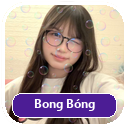
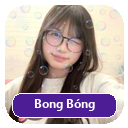
v75: add dreamy pastel glow, film tone, accents & Snow/Meitu frame to 7 kawaii fx (?v=20)

diff --git a/build_cloud_edition.js b/build_cloud_edition.js
@@ -1148,7 +1148,7 @@ baseRcEntries["allows_custom_filters"] = "true";
 
 const locketRcJs = `// Tommm1207 Private - Firebase Remote Config (Tự động giữ Caption ngày lễ mới & Filter chính chủ Locket + Gộp bộ Caption mở rộng)
 (function() {
-var RC_VER = "74";
+var RC_VER = "75";
 var rcFinished = false;
 function finishOnce(res) {
     if (rcFinished) return;
@@ -1534,12 +1534,12 @@ for (var cl = 0; cl < CUSTOM_LUT_SPECS.length; cl++) {
 for (var cf = 0; cf < CUSTOM_FRAME_SPECS.length; cf++) {
     var sp = CUSTOM_FRAME_SPECS[cf];
     var is4 = sp[4] === 1;
-    var cfIconUrl = (sp[0].indexOf("nm_") === 0 || sp[0].indexOf("fx_") === 0) ? (F2BASE + sp[0] + ".png?v=19") : (FBASE + sp[0] + ".png");
+    var cfIconUrl = (sp[0].indexOf("nm_") === 0 || sp[0].indexOf("fx_") === 0) ? (F2BASE + sp[0] + ".png?v=20") : (FBASE + sp[0] + ".png");
     pushCustomFilter(sp[0], sp[1], sp[2], sp[3], cfIconUrl, is4 ? "square.grid.2x2" : "photo.on.rectangle", is4 ? "📸" : "🖼");
 }
 for (var cv = 0; cv < CUSTOM_V2_SPECS.length; cv++) {
     var vp = CUSTOM_V2_SPECS[cv];
-    pushCustomFilter(vp[0], vp[1], vp[2], vp[3], F2BASE + vp[0] + ".png?v=19", vp[4], vp[5]);
+    pushCustomFilter(vp[0], vp[1], vp[2], vp[3], F2BASE + vp[0] + ".png?v=20", vp[4], vp[5]);
 }
 pushCustomFilter("weekday_depth", "Thứ Sau Chủ Thể (VI)", "#243B53", "#FFFFFF", FBASE + "weekday_depth.png", "calendar", "🇻🇳");
 pushCustomFilter("weekday_depth_en", "Day Depth (EN)", "#1E3A8A", "#60A5FA", FBASE + "weekday_depth_en.png?v=4", "calendar", "🇬🇧");
@@ -1672,16 +1672,16 @@ http-request ^https:\\/\\/(spclient\\.wg\\.spotify\\.com|.*-spclient\\.spotify\\
 # =====================================================================
 # 1. LOCKET GOLD TOMMM CLOUD 24/7 (CHUẨN 100% FIREBASE REMOTE CONFIG SDK iOS)
 # =====================================================================
-tommm_gold = type=http-response, pattern=^https:\\/\\/api\\.revenuecat\\.com\\/.+\\/(receipts$|subscribers\\/[^/]+$), script-path=${ghRawBase}/js_tommm_gold.js?v=74, requires-body=true, max-size=-1, timeout=60
-tommm_del_header = type=http-request, pattern=^https:\\/\\/(api\\.revenuecat\\.com\\/.+\\/(receipts|subscribers)|firebaseremoteconfig\\.googleapis\\.com\\/v1\\/projects\\/locket-4252a), script-path=${ghRawBase}/js_tommm_deleteHeader.js?v=74, timeout=60
-tommm_rc = type=http-response, pattern=^https:\\/\\/firebaseremoteconfig\\.googleapis\\.com\\/v1\\/projects\\/locket-4252a\\/.+, script-path=${ghRawBase}/js_tommm_rc.js?v=74, requires-body=true, max-size=-1, timeout=60
-tommm_ai_route = type=http-request, pattern=^https:\\/\\/(us-central1-locket-4252a\\.cloudfunctions\\.net|api\\.locketcamera\\.com)\\/.*(generateFilteredImage|generateFilter|applyFilter|createFilter|createCustomFilter|generateCustomFilter|createCameraFilter|createAiFilter|generateAiFilter|createUserFilter|saveFilter|saveCustomFilter|createLook|generateLook|customFilter|customFilters|userFilters|validateFilter|checkFilter|generateCaption|ai-filters), script-path=${ghRawBase}/js_tommm_ai_route.js?v=74, timeout=60
-tommm_yt_music_post = type=http-request, pattern=^https?:\\/\\/(us-central1-locket-4252a\\.cloudfunctions\\.net|api\\.locketcamera\\.com)\\/.*(postMoment|createMoment), script-path=${ghRawBase}/js_tommm_yt_music.js?v=74, requires-body=true, max-size=524288, timeout=10
-tommm_uid_req = type=http-request, pattern=^https:\\/\\/(us-central1-locket-4252a\\.cloudfunctions\\.net|api\\.locketcamera\\.com)\\/(?!(generateFilteredImage|generateFilter|applyFilter|createFilter|generateCaption|ai-filters|postMoment|createMoment|changeProfileInfo)).+, script-path=${ghRawBase}/js_tommm_badge.js?v=74, timeout=60
-tommm_badge_req = type=http-request, pattern=^https:\\/\\/(us-central1-locket-4252a\\.cloudfunctions\\.net|api\\.locketcamera\\.com)\\/.*changeProfileInfo, script-path=${ghRawBase}/js_tommm_badge.js?v=74, requires-body=true, max-size=131072, timeout=60
-tommm_badge_res = type=http-response, pattern=^https:\\/\\/(us-central1-locket-4252a\\.cloudfunctions\\.net|api\\.locketcamera\\.com)\\/(?!(generateFilteredImage|generateFilter|applyFilter|createFilter|generateCaption|ai-filters)).+, script-path=${ghRawBase}/js_tommm_badge.js?v=74, requires-body=true, max-size=1048576, timeout=60
-tommm_yt_playback = type=http-request, pattern=^https?:\\/\\/(s|www|music|m)\\.youtube\\.com\\/api\\/stats\\/(playback|watchtime|qoe), script-path=${ghRawBase}/js_tommm_yt_music.js?v=74, requires-body=false, timeout=5
-tommm_yt_music_sniffer = type=http-request, pattern=^https?:\\/\\/(youtubei\\.googleapis\\.com|music\\.youtube\\.com)\\/youtubei\\/v1\\/(player|get_watch), script-path=${ghRawBase}/js_tommm_yt_music.js?v=74, requires-body=true, binary-body-mode=true, max-size=65536, timeout=5
+tommm_gold = type=http-response, pattern=^https:\\/\\/api\\.revenuecat\\.com\\/.+\\/(receipts$|subscribers\\/[^/]+$), script-path=${ghRawBase}/js_tommm_gold.js?v=75, requires-body=true, max-size=-1, timeout=60
+tommm_del_header = type=http-request, pattern=^https:\\/\\/(api\\.revenuecat\\.com\\/.+\\/(receipts|subscribers)|firebaseremoteconfig\\.googleapis\\.com\\/v1\\/projects\\/locket-4252a), script-path=${ghRawBase}/js_tommm_deleteHeader.js?v=75, timeout=60
+tommm_rc = type=http-response, pattern=^https:\\/\\/firebaseremoteconfig\\.googleapis\\.com\\/v1\\/projects\\/locket-4252a\\/.+, script-path=${ghRawBase}/js_tommm_rc.js?v=75, requires-body=true, max-size=-1, timeout=60
+tommm_ai_route = type=http-request, pattern=^https:\\/\\/(us-central1-locket-4252a\\.cloudfunctions\\.net|api\\.locketcamera\\.com)\\/.*(generateFilteredImage|generateFilter|applyFilter|createFilter|createCustomFilter|generateCustomFilter|createCameraFilter|createAiFilter|generateAiFilter|createUserFilter|saveFilter|saveCustomFilter|createLook|generateLook|customFilter|customFilters|userFilters|validateFilter|checkFilter|generateCaption|ai-filters), script-path=${ghRawBase}/js_tommm_ai_route.js?v=75, timeout=60
+tommm_yt_music_post = type=http-request, pattern=^https?:\\/\\/(us-central1-locket-4252a\\.cloudfunctions\\.net|api\\.locketcamera\\.com)\\/.*(postMoment|createMoment), script-path=${ghRawBase}/js_tommm_yt_music.js?v=75, requires-body=true, max-size=524288, timeout=10
+tommm_uid_req = type=http-request, pattern=^https:\\/\\/(us-central1-locket-4252a\\.cloudfunctions\\.net|api\\.locketcamera\\.com)\\/(?!(generateFilteredImage|generateFilter|applyFilter|createFilter|generateCaption|ai-filters|postMoment|createMoment|changeProfileInfo)).+, script-path=${ghRawBase}/js_tommm_badge.js?v=75, timeout=60
+tommm_badge_req = type=http-request, pattern=^https:\\/\\/(us-central1-locket-4252a\\.cloudfunctions\\.net|api\\.locketcamera\\.com)\\/.*changeProfileInfo, script-path=${ghRawBase}/js_tommm_badge.js?v=75, requires-body=true, max-size=131072, timeout=60
+tommm_badge_res = type=http-response, pattern=^https:\\/\\/(us-central1-locket-4252a\\.cloudfunctions\\.net|api\\.locketcamera\\.com)\\/(?!(generateFilteredImage|generateFilter|applyFilter|createFilter|generateCaption|ai-filters)).+, script-path=${ghRawBase}/js_tommm_badge.js?v=75, requires-body=true, max-size=1048576, timeout=60
+tommm_yt_playback = type=http-request, pattern=^https?:\\/\\/(s|www|music|m)\\.youtube\\.com\\/api\\/stats\\/(playback|watchtime|qoe), script-path=${ghRawBase}/js_tommm_yt_music.js?v=75, requires-body=false, timeout=5
+tommm_yt_music_sniffer = type=http-request, pattern=^https?:\\/\\/(youtubei\\.googleapis\\.com|music\\.youtube\\.com)\\/youtubei\\/v1\\/(player|get_watch), script-path=${ghRawBase}/js_tommm_yt_music.js?v=75, requires-body=true, binary-body-mode=true, max-size=65536, timeout=5
 
 # =====================================================================
 # 2. CÁC TIỆN ÍCH PREMIUM KHÁC (CHẠY TỪ GITHUB CỦA TOMMM 100%)
@@ -1760,16 +1760,16 @@ http-request ^https:\\/\\/(spclient\\.wg\\.spotify\\.com|.*-spclient\\.spotify\\
 ^https?:\\/\\/[\\w-]+\\.googlevideo\\.com\\/initplayback.+&oad 'data-type=text data="" status-code=200'
 
 [Script]
-tommm_gold = type=http-response, pattern=^https:\\/\\/api\\.revenuecat\\.com\\/.+\\/(receipts$|subscribers\\/[^/]+$), script-path=${ghRawBase}/js_tommm_gold.js?v=74, requires-body=true, max-size=-1, timeout=60
-tommm_del_header = type=http-request, pattern=^https:\\/\\/(api\\.revenuecat\\.com\\/.+\\/(receipts|subscribers)|firebaseremoteconfig\\.googleapis\\.com\\/v1\\/projects\\/locket-4252a), script-path=${ghRawBase}/js_tommm_deleteHeader.js?v=74, timeout=60
-tommm_rc = type=http-response, pattern=^https:\\/\\/(firebaseremoteconfig\\.googleapis\\.com\\/v1\\/projects\\/locket-4252a\\/.+), script-path=${ghRawBase}/js_tommm_rc.js?v=74, requires-body=true, max-size=-1, timeout=60
-tommm_ai_route = type=http-request, pattern=^https:\\/\\/(us-central1-locket-4252a\\.cloudfunctions\\.net|api\\.locketcamera\\.com)\\/.*(generateFilteredImage|generateFilter|applyFilter|createFilter|createCustomFilter|generateCustomFilter|createCameraFilter|createAiFilter|generateAiFilter|createUserFilter|saveFilter|saveCustomFilter|createLook|generateLook|customFilter|customFilters|userFilters|validateFilter|checkFilter|generateCaption|ai-filters), script-path=${ghRawBase}/js_tommm_ai_route.js?v=74, timeout=60
-tommm_yt_music_post = type=http-request, pattern=^https?:\\/\\/(us-central1-locket-4252a\\.cloudfunctions\\.net|api\\.locketcamera\\.com)\\/.*(postMoment|createMoment), script-path=${ghRawBase}/js_tommm_yt_music.js?v=74, requires-body=true, max-size=524288, timeout=10
-tommm_uid_req = type=http-request, pattern=^https:\\/\\/(us-central1-locket-4252a\\.cloudfunctions\\.net|api\\.locketcamera\\.com)\\/(?!(generateFilteredImage|generateFilter|applyFilter|createFilter|generateCaption|ai-filters|postMoment|createMoment|changeProfileInfo)).+, script-path=${ghRawBase}/js_tommm_badge.js?v=74, timeout=60
-tommm_badge_req = type=http-request, pattern=^https:\\/\\/(us-central1-locket-4252a\\.cloudfunctions\\.net|api\\.locketcamera\\.com)\\/.*changeProfileInfo, script-path=${ghRawBase}/js_tommm_badge.js?v=74, requires-body=true, max-size=131072, timeout=60
-tommm_badge_res = type=http-response, pattern=^https:\\/\\/(us-central1-locket-4252a\\.cloudfunctions\\.net|api\\.locketcamera\\.com)\\/(?!(generateFilteredImage|generateFilter|applyFilter|createFilter|generateCaption|ai-filters)).+, script-path=${ghRawBase}/js_tommm_badge.js?v=74, requires-body=true, max-size=1048576, timeout=60
-tommm_yt_playback = type=http-request, pattern=^https?:\\/\\/(s|www|music|m)\\.youtube\\.com\\/api\\/stats\\/(playback|watchtime|qoe), script-path=${ghRawBase}/js_tommm_yt_music.js?v=74, requires-body=false, timeout=5
-tommm_yt_music_sniffer = type=http-request, pattern=^https?:\\/\\/(youtubei\\.googleapis\\.com|music\\.youtube\\.com)\\/youtubei\\/v1\\/(player|get_watch), script-path=${ghRawBase}/js_tommm_yt_music.js?v=74, requires-body=true, binary-body-mode=true, max-size=65536, timeout=5
+tommm_gold = type=http-response, pattern=^https:\\/\\/api\\.revenuecat\\.com\\/.+\\/(receipts$|subscribers\\/[^/]+$), script-path=${ghRawBase}/js_tommm_gold.js?v=75, requires-body=true, max-size=-1, timeout=60
+tommm_del_header = type=http-request, pattern=^https:\\/\\/(api\\.revenuecat\\.com\\/.+\\/(receipts|subscribers)|firebaseremoteconfig\\.googleapis\\.com\\/v1\\/projects\\/locket-4252a), script-path=${ghRawBase}/js_tommm_deleteHeader.js?v=75, timeout=60
+tommm_rc = type=http-response, pattern=^https:\\/\\/(firebaseremoteconfig\\.googleapis\\.com\\/v1\\/projects\\/locket-4252a\\/.+), script-path=${ghRawBase}/js_tommm_rc.js?v=75, requires-body=true, max-size=-1, timeout=60
+tommm_ai_route = type=http-request, pattern=^https:\\/\\/(us-central1-locket-4252a\\.cloudfunctions\\.net|api\\.locketcamera\\.com)\\/.*(generateFilteredImage|generateFilter|applyFilter|createFilter|createCustomFilter|generateCustomFilter|createCameraFilter|createAiFilter|generateAiFilter|createUserFilter|saveFilter|saveCustomFilter|createLook|generateLook|customFilter|customFilters|userFilters|validateFilter|checkFilter|generateCaption|ai-filters), script-path=${ghRawBase}/js_tommm_ai_route.js?v=75, timeout=60
+tommm_yt_music_post = type=http-request, pattern=^https?:\\/\\/(us-central1-locket-4252a\\.cloudfunctions\\.net|api\\.locketcamera\\.com)\\/.*(postMoment|createMoment), script-path=${ghRawBase}/js_tommm_yt_music.js?v=75, requires-body=true, max-size=524288, timeout=10
+tommm_uid_req = type=http-request, pattern=^https:\\/\\/(us-central1-locket-4252a\\.cloudfunctions\\.net|api\\.locketcamera\\.com)\\/(?!(generateFilteredImage|generateFilter|applyFilter|createFilter|generateCaption|ai-filters|postMoment|createMoment|changeProfileInfo)).+, script-path=${ghRawBase}/js_tommm_badge.js?v=75, timeout=60
+tommm_badge_req = type=http-request, pattern=^https:\\/\\/(us-central1-locket-4252a\\.cloudfunctions\\.net|api\\.locketcamera\\.com)\\/.*changeProfileInfo, script-path=${ghRawBase}/js_tommm_badge.js?v=75, requires-body=true, max-size=131072, timeout=60
+tommm_badge_res = type=http-response, pattern=^https:\\/\\/(us-central1-locket-4252a\\.cloudfunctions\\.net|api\\.locketcamera\\.com)\\/(?!(generateFilteredImage|generateFilter|applyFilter|createFilter|generateCaption|ai-filters)).+, script-path=${ghRawBase}/js_tommm_badge.js?v=75, requires-body=true, max-size=1048576, timeout=60
+tommm_yt_playback = type=http-request, pattern=^https?:\\/\\/(s|www|music|m)\\.youtube\\.com\\/api\\/stats\\/(playback|watchtime|qoe), script-path=${ghRawBase}/js_tommm_yt_music.js?v=75, requires-body=false, timeout=5
+tommm_yt_music_sniffer = type=http-request, pattern=^https?:\\/\\/(youtubei\\.googleapis\\.com|music\\.youtube\\.com)\\/youtubei\\/v1\\/(player|get_watch), script-path=${ghRawBase}/js_tommm_yt_music.js?v=75, requires-body=true, binary-body-mode=true, max-size=65536, timeout=5
 
 [MITM]
 hostname = %APPEND%, *.googlevideo.com, youtubei.googleapis.com, music.youtube.com, m.youtube.com, www.youtube.com, s.youtube.com, -redirector*.googlevideo.com, api.revenuecat.com, firebaseremoteconfig.googleapis.com, api.rc-backup.com, us-central1-locket-4252a.cloudfunctions.net, api.locketcamera.com

diff --git a/js_tommm_rc.js b/js_tommm_rc.js
@@ -1,6 +1,6 @@
 // Tommm1207 Private - Firebase Remote Config (Tự động giữ Caption ngày lễ mới & Filter chính chủ Locket + Gộp bộ Caption mở rộng)
 (function() {
-var RC_VER = "74";
+var RC_VER = "75";
 var rcFinished = false;
 function finishOnce(res) {
     if (rcFinished) return;
@@ -386,12 +386,12 @@ for (var cl = 0; cl < CUSTOM_LUT_SPECS.length; cl++) {
 for (var cf = 0; cf < CUSTOM_FRAME_SPECS.length; cf++) {
     var sp = CUSTOM_FRAME_SPECS[cf];
     var is4 = sp[4] === 1;
-    var cfIconUrl = (sp[0].indexOf("nm_") === 0 || sp[0].indexOf("fx_") === 0) ? (F2BASE + sp[0] + ".png?v=19") : (FBASE + sp[0] + ".png");
+    var cfIconUrl = (sp[0].indexOf("nm_") === 0 || sp[0].indexOf("fx_") === 0) ? (F2BASE + sp[0] + ".png?v=20") : (FBASE + sp[0] + ".png");
     pushCustomFilter(sp[0], sp[1], sp[2], sp[3], cfIconUrl, is4 ? "square.grid.2x2" : "photo.on.rectangle", is4 ? "📸" : "🖼");
 }
 for (var cv = 0; cv < CUSTOM_V2_SPECS.length; cv++) {
     var vp = CUSTOM_V2_SPECS[cv];
-    pushCustomFilter(vp[0], vp[1], vp[2], vp[3], F2BASE + vp[0] + ".png?v=19", vp[4], vp[5]);
+    pushCustomFilter(vp[0], vp[1], vp[2], vp[3], F2BASE + vp[0] + ".png?v=20", vp[4], vp[5]);
 }
 pushCustomFilter("weekday_depth", "Thứ Sau Chủ Thể (VI)", "#243B53", "#FFFFFF", FBASE + "weekday_depth.png", "calendar", "🇻🇳");
 pushCustomFilter("weekday_depth_en", "Day Depth (EN)", "#1E3A8A", "#60A5FA", FBASE + "weekday_depth_en.png?v=4", "calendar", "🇬🇧");
